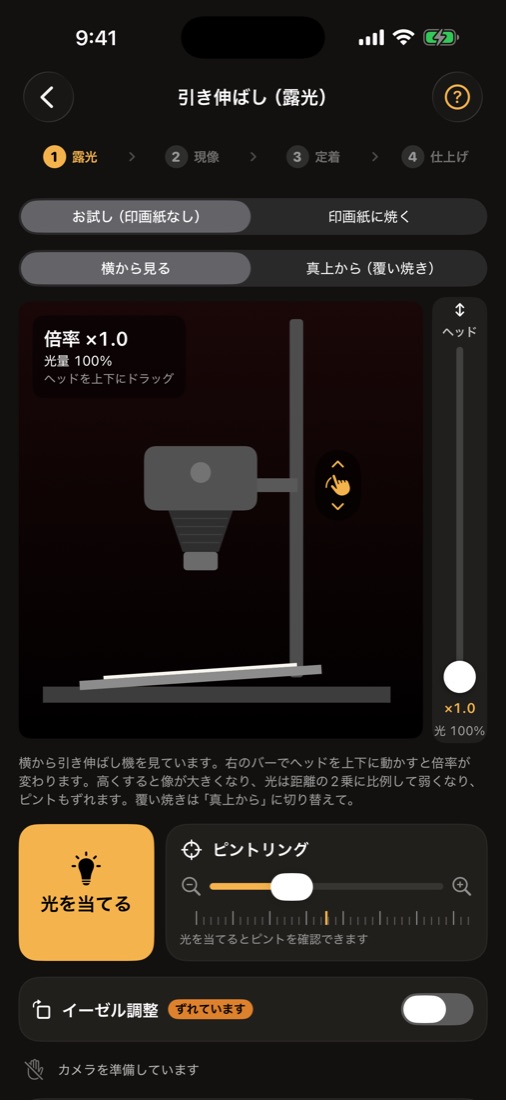
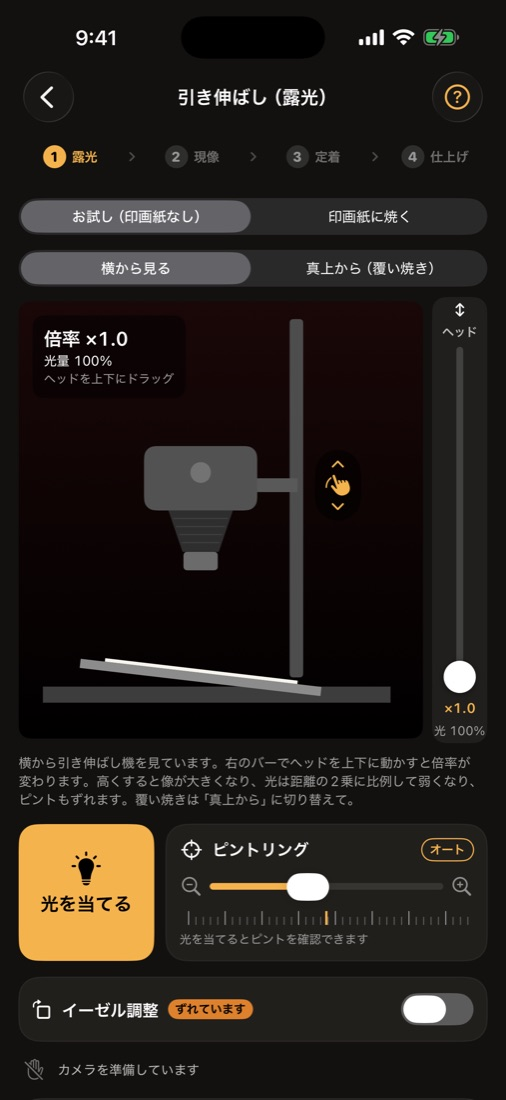
Add files via upload

diff --git a/assets/hero3d.js b/assets/hero3d.js
@@ -1,0 +1,285 @@
+/*
+ * ヒーローの演出（three.js）
+ * 現像液の中で、白い印画紙に像が浮かび上がる。暗い所から先に現れ、
+ * 指やマウスで触れると液面に波紋が広がる。セーフライトの光の中に塵が漂う。
+ * WebGL が使えないとき・動きを減らす設定のときは、CSS の背景画像のまま（またはすぐ完成した像）にする。
+ */
+(function () {
+  var script = document.currentScript;
+  var hero = document.querySelector('.hero');
+  var holder = hero && hero.querySelector('.hero-bg');
+  if (!hero || !holder || !window.THREE) return;
+
+  var reduceMotion = window.matchMedia && window.matchMedia('(prefers-reduced-motion: reduce)').matches;
+  // 確認用：URL に #prog=0.3 のように付けると、現像の途中で止めて表示する
+  var forced = /prog=([0-9.]+)/.exec(location.hash);
+  if (forced) reduceMotion = true;
+  var imageURL = (script && script.getAttribute('data-image')) || 'assets/hero.jpg';
+
+  var renderer;
+  try {
+    renderer = new THREE.WebGLRenderer({ antialias: false, alpha: false, powerPreference: 'low-power' });
+  } catch (e) {
+    return; // WebGL なし：CSS の背景のまま
+  }
+  if (!renderer.getContext()) return;
+
+  var canvas = renderer.domElement;
+  canvas.className = 'hero-canvas';
+  canvas.setAttribute('aria-hidden', 'true');
+  renderer.setPixelRatio(Math.min(window.devicePixelRatio || 1, 2));
+
+  var scene = new THREE.Scene();
+  var camera = new THREE.OrthographicCamera(-1, 1, 1, -1, 0, 1);
+
+  // ---- 印画紙（現像される像） ----
+  var MAX_RIPPLES = 8;
+  var ripples = [];
+  for (var i = 0; i < MAX_RIPPLES; i++) ripples.push(new THREE.Vector3(0, 0, -100));
+
+  var uniforms = {
+    uTex: { value: null },
+    uTime: { value: 0 },
+    uProg: { value: forced ? parseFloat(forced[1]) : (reduceMotion ? 1 : 0) },
+    uRes: { value: new THREE.Vector2(1, 1) },
+    uImgAspect: { value: 1.5 },
+    uRip: { value: ripples }
+  };
+
+  var paperMaterial = new THREE.ShaderMaterial({
+    uniforms: uniforms,
+    vertexShader: [
+      'varying vec2 vUv;',
+      'void main() { vUv = uv; gl_Position = vec4(position.xy, 0.0, 1.0); }'
+    ].join('\n'),
+    fragmentShader: [
+      'precision highp float;',
+      'uniform sampler2D uTex;',
+      'uniform float uTime, uProg, uImgAspect;',
+      'uniform vec2 uRes;',
+      'uniform vec3 uRip[' + MAX_RIPPLES + '];',
+      'varying vec2 vUv;',
+      'float hash(vec2 p) { return fract(sin(dot(p, vec2(127.1, 311.7))) * 43758.5453); }',
+      'float noise(vec2 p) {',
+      '  vec2 i = floor(p), f = fract(p); f = f * f * (3.0 - 2.0 * f);',
+      '  return mix(mix(hash(i), hash(i + vec2(1.0, 0.0)), f.x), mix(hash(i + vec2(0.0, 1.0)), hash(i + 1.0), f.x), f.y);',
+      '}',
+      'void main() {',
+      '  vec2 uv = vUv;',
+      '  float ca = uRes.x / uRes.y;',
+      // background-size: cover と同じ切り取り
+      '  vec2 s = ca > uImgAspect ? vec2(1.0, uImgAspect / ca) : vec2(ca / uImgAspect, 1.0);',
+      '  vec2 p = (uv - 0.5) * s + 0.5;',
+      // 液面のゆらぎ
+      '  vec2 w = vec2(noise(uv * 3.0 + uTime * 0.15), noise(uv * 3.0 - uTime * 0.12)) - 0.5;',
+      '  p += w * 0.005;',
+      // 波紋（中心から広がり、だんだん弱まる）
+      '  float shine = 0.0;',
+      '  for (int i = 0; i < ' + MAX_RIPPLES + '; i++) {',
+      '    vec3 r = uRip[i];',
+      '    float age = uTime - r.z;',
+      '    if (age < 0.0 || age > 3.5) continue;',
+      '    vec2 d = (uv - r.xy) * vec2(ca, 1.0);',
+      '    float dist = length(d);',
+      '    float front = age * 0.32;',
+      '    float ring = exp(-pow((dist - front) * 14.0, 2.0));',
+      '    float wave = sin((dist - front) * 70.0) * ring * exp(-age * 1.1);',
+      '    p += (d / max(dist, 1e-4)) * wave * 0.008 * vec2(1.0 / ca, 1.0);',
+      '    shine += max(wave, 0.0) * 0.12;',
+      '  }',
+      '  vec3 img = texture2D(uTex, clamp(p, 0.0, 1.0)).rgb;',
+      // 濃い（暗い）所ほど先に現れる
+      '  float lum = dot(img, vec3(0.299, 0.587, 0.114));',
+      '  float n = noise(uv * 9.0) * 0.18;',
+      // 写真が全体に暗めなので、明るさを広げてから順に現す（6秒かけて少しずつ）
+      '  float lumN = clamp(lum * 2.2, 0.0, 1.0);',
+      '  float reveal = smoothstep(0.0, 0.2, uProg * 1.3 - lumN - n + 0.1);',
+      // 現像前の印画紙：セーフライトの下で赤っぽく沈んだ白
+      '  vec3 paper = vec3(0.62, 0.30, 0.22);',
+      '  vec3 col = mix(paper, img, reveal);',
+      '  col += shine * vec3(1.0, 0.7, 0.5);',
+      // フィルムの粒子
+      '  col += (hash(uv * uRes + fract(uTime * 7.0) * 91.0) - 0.5) * 0.045;',
+      '  gl_FragColor = vec4(col, 1.0);',
+      '}'
+    ].join('\n')
+  });
+  scene.add(new THREE.Mesh(new THREE.PlaneGeometry(2, 2), paperMaterial));
+
+  // ---- セーフライトの光の中を漂う塵 ----
+  var DUST = 140;
+  var dustPos = new Float32Array(DUST * 3);
+  var dustSeed = new Float32Array(DUST);
+  for (var j = 0; j < DUST; j++) {
+    dustPos[j * 3] = Math.random() * 2 - 1;
+    dustPos[j * 3 + 1] = Math.random() * 2 - 1;
+    dustPos[j * 3 + 2] = 0;
+    dustSeed[j] = Math.random();
+  }
+  var dustGeo = new THREE.BufferGeometry();
+  dustGeo.setAttribute('position', new THREE.BufferAttribute(dustPos, 3));
+  dustGeo.setAttribute('seed', new THREE.BufferAttribute(dustSeed, 1));
+  var dustMaterial = new THREE.ShaderMaterial({
+    uniforms: { uTime: uniforms.uTime, uScale: { value: renderer.getPixelRatio() } },
+    transparent: true,
+    depthTest: false,
+    blending: THREE.AdditiveBlending,
+    vertexShader: [
+      'attribute float seed;',
+      'uniform float uTime, uScale;',
+      'varying float vAlpha;',
+      'void main() {',
+      '  vec3 p = position;',
+      // ゆっくり上へ流れ、左右にゆれる。画面の上に出たら下へ戻る
+      '  p.y = mod(p.y + 1.0 + uTime * (0.015 + seed * 0.03), 2.0) - 1.0;',
+      '  p.x += sin(uTime * (0.3 + seed) + seed * 40.0) * 0.03;',
+      '  vAlpha = (0.25 + 0.75 * seed) * (0.6 + 0.4 * sin(uTime * 1.7 + seed * 20.0));',
+      '  gl_Position = vec4(p.xy, 0.0, 1.0);',
+      '  gl_PointSize = (1.5 + seed * 3.5) * uScale;',
+      '}'
+    ].join('\n'),
+    fragmentShader: [
+      'precision mediump float;',
+      'varying float vAlpha;',
+      'void main() {',
+      '  float d = length(gl_PointCoord - 0.5);',
+      '  float a = smoothstep(0.5, 0.0, d) * vAlpha * 0.55;',
+      '  gl_FragColor = vec4(vec3(1.0, 0.72, 0.48) * a, a);',
+      '}'
+    ].join('\n')
+  });
+  scene.add(new THREE.Points(dustGeo, dustMaterial));
+
+  // ---- 大きさ ----
+  function resize() {
+    var w = holder.clientWidth || hero.clientWidth;
+    var h = holder.clientHeight || hero.clientHeight;
+    renderer.setSize(w, h, false);
+    uniforms.uRes.value.set(w, h);
+    if (!running) renderer.render(scene, camera);
+  }
+
+  // ---- 波紋 ----
+  var nextRipple = 0;
+  function addRipple(x, y) {
+    ripples[nextRipple].set(x, y, uniforms.uTime.value);
+    nextRipple = (nextRipple + 1) % MAX_RIPPLES;
+  }
+  var lastMoveRipple = 0;
+  function pointerToUV(e) {
+    var r = canvas.getBoundingClientRect();
+    return { x: (e.clientX - r.left) / r.width, y: 1 - (e.clientY - r.top) / r.height };
+  }
+  if (!reduceMotion) {
+    hero.addEventListener('pointermove', function (e) {
+      var t = uniforms.uTime.value;
+      if (t - lastMoveRipple < 0.18) return;
+      lastMoveRipple = t;
+      var p = pointerToUV(e);
+      addRipple(p.x, p.y);
+    }, { passive: true });
+    hero.addEventListener('pointerdown', function (e) {
+      var p = pointerToUV(e);
+      addRipple(p.x, p.y);
+    }, { passive: true });
+  }
+
+  // ---- 描画ループ（見えている間だけ動かす） ----
+  var running = false;
+  var visible = true;
+  var start = 0;
+  var last = 0;
+  var nextDrip = 2.0;
+  function frame(now) {
+    if (!running) return;
+    var t = now / 1000;
+    if (!start) start = t;
+    var dt = Math.min(0.1, t - (last || t));
+    last = t;
+    uniforms.uTime.value += dt;
+    var el = uniforms.uTime.value;
+    // 約6秒かけて現像し、ゆっくり止まる
+    var x = Math.min(1, el / 6);
+    uniforms.uProg.value = 1 - Math.pow(1 - x, 3);
+    // ときどき、しずくが落ちたような波紋
+    if (el > nextDrip) {
+      addRipple(0.15 + Math.random() * 0.7, 0.2 + Math.random() * 0.6);
+      nextDrip = el + 2.5 + Math.random() * 3;
+    }
+    renderer.render(scene, camera);
+    requestAnimationFrame(frame);
+  }
+  function setRunning(on) {
+    if (reduceMotion) on = false;
+    if (on === running) return;
+    running = on;
+    last = 0;
+    if (on) requestAnimationFrame(frame);
+  }
+
+  // ---- 画像を読み込んでから差し替える ----
+  new THREE.TextureLoader().load(imageURL, function (tex) {
+    tex.minFilter = THREE.LinearFilter;
+    tex.generateMipmaps = false;
+    uniforms.uTex.value = tex;
+    uniforms.uImgAspect.value = tex.image.width / tex.image.height;
+    holder.appendChild(canvas);
+    holder.classList.add('has-canvas');
+    resize();
+    renderer.render(scene, camera);
+    setRunning(visible && !document.hidden);
+  });
+
+  if ('ResizeObserver' in window) {
+    new ResizeObserver(resize).observe(holder);
+  } else {
+    window.addEventListener('resize', resize);
+  }
+  if ('IntersectionObserver' in window) {
+    new IntersectionObserver(function (entries) {
+      visible = entries[0].isIntersecting;
+      setRunning(visible && !document.hidden && !!uniforms.uTex.value);
+    }).observe(hero);
+  }
+  document.addEventListener('visibilitychange', function () {
+    setRunning(visible && !document.hidden && !!uniforms.uTex.value);
+  });
+})();
+
+/*
+ * スクリーンショットの列：画面に入ると、奥から一枚ずつ起き上がるように並ぶ。
+ * 指やマウスを乗せると少し傾く。
+ */
+(function () {
+  var figs = document.querySelectorAll('.shots figure');
+  if (!figs.length) return;
+  var reduceMotion = window.matchMedia && window.matchMedia('(prefers-reduced-motion: reduce)').matches;
+  if (reduceMotion || !('IntersectionObserver' in window)) return;
+
+  for (var i = 0; i < figs.length; i++) {
+    figs[i].classList.add('tilt-in');
+    figs[i].style.transitionDelay = (i * 0.08) + 's';
+  }
+  var io = new IntersectionObserver(function (entries) {
+    entries.forEach(function (e) {
+      if (e.isIntersecting) {
+        e.target.classList.add('is-in');
+        io.unobserve(e.target);
+      }
+    });
+  }, { threshold: 0.25 });
+  for (var j = 0; j < figs.length; j++) io.observe(figs[j]);
+
+  Array.prototype.forEach.call(figs, function (fig) {
+    var img = fig.querySelector('img');
+    if (!img) return;
+    fig.addEventListener('pointermove', function (e) {
+      if (e.pointerType === 'touch') return;
+      var r = fig.getBoundingClientRect();
+      var dx = (e.clientX - r.left) / r.width - 0.5;
+      var dy = (e.clientY - r.top) / r.height - 0.5;
+      img.style.transform = 'perspective(900px) rotateY(' + (dx * 14) + 'deg) rotateX(' + (-dy * 10) + 'deg) translateZ(10px)';
+    });
+    fig.addEventListener('pointerleave', function () { img.style.transform = ''; });
+  });
+})();

diff --git a/assets/style.css b/assets/style.css
@@ -21,7 +21,7 @@ body {
   line-height: 1.8;
 }
 a { color: var(--amber); }
-img { max-width: 100%; display: block; }
+img { max-width: 100%; height: auto; display: block; }
 
 .wrap { max-width: 1080px; margin: 0 auto; padding: 0 16px; }
 
@@ -73,8 +73,8 @@ section { padding: 88px 0; }
 .step p { margin: 0; color: var(--muted); font-size: 14px; }
 
 /* スクリーンショット */
-.shots { display: flex; gap: 18px; overflow-x: auto; padding: 36px 16px 12px; margin: 0 -16px; scroll-snap-type: x mandatory; }
-.shots figure { flex: 0 0 auto; width: min(64vw, 250px); margin: 0; scroll-snap-align: center; }
+.shots { display: flex; gap: 18px; overflow-x: auto; padding: 36px 16px 12px; margin: 0 -16px; scroll-snap-type: x mandatory; scroll-padding: 0 16px; }
+.shots figure { flex: 0 0 auto; width: min(64vw, 250px); margin: 0; scroll-snap-align: start; }
 .shots img { border-radius: 26px; border: 1px solid var(--line); box-shadow: 0 20px 50px rgba(0,0,0,0.5); }
 .shots figcaption { font-size: 13px; color: var(--muted); margin-top: 12px; text-align: center; }
 
@@ -119,3 +119,17 @@ section { padding: 88px 0; }
   .doc td:first-child { border-top: 0; font-weight: 600; }
   .doc td:not(:first-child)::before { content: attr(data-label); display: block; font-size: 12px; color: var(--amber); letter-spacing: 0.04em; }
 }
+
+/* three.js の演出（ヒーローの現像・波紋・塵） */
+.hero-canvas { position: absolute; inset: 0; width: 100%; height: 100%; display: block; }
+.hero { touch-action: pan-y; }
+
+/* スクリーンショット：奥から起き上がって並ぶ。マウスを乗せると傾く */
+.shots { perspective: 1200px; }
+.shots figure.tilt-in {
+  opacity: 0;
+  transform: rotateY(-38deg) translateX(60px) translateZ(-80px);
+  transition: transform 0.9s cubic-bezier(0.2, 0.8, 0.2, 1), opacity 0.9s ease;
+}
+.shots figure.tilt-in.is-in { opacity: 1; transform: none; }
+.shots img { transition: transform 0.25s ease-out; will-change: transform; }

diff --git a/index.html b/index.html
@@ -7,12 +7,14 @@
   <meta name="description" content="Darkroom Lab は、撮影したネガを引き伸ばし機で印画紙に焼き付け、現像・定着して一枚のプリントに仕上げるまでを iPhone で体験できるアプリです。">
   <meta property="og:title" content="Darkroom Lab">
   <meta property="og:description" content="撮る・焼く・現像する。暗室の手ざわりを、iPhoneで。">
-  <meta property="og:image" content="assets/hero.jpg">
+  <meta property="og:image" content="https://hideto0926.github.io/genzo/assets/hero.jpg">
+  <meta property="og:url" content="https://hideto0926.github.io/genzo/">
+  <link rel="canonical" href="https://hideto0926.github.io/genzo/">
   <meta name="theme-color" content="#0e0a09">
   <link rel="icon" href="assets/icon.png">
   <link rel="apple-touch-icon" href="assets/icon.png">
-  <link rel="alternate" hreflang="ja" href="./">
-  <link rel="alternate" hreflang="en" href="en/">
+  <link rel="alternate" hreflang="ja" href="https://hideto0926.github.io/genzo/">
+  <link rel="alternate" hreflang="en" href="https://hideto0926.github.io/genzo/en/">
   <link rel="stylesheet" href="assets/style.css">
 </head>
 <body>
@@ -86,5 +88,7 @@
       </nav>
     </div>
   </footer>
+  <script src="https://cdnjs.cloudflare.com/ajax/libs/three.js/r128/three.min.js" defer></script>
+  <script src="assets/hero3d.js" data-image="assets/hero.jpg" defer></script>
 </body>
 </html>

diff --git a/en/index.html b/en/index.html
@@ -7,12 +7,14 @@
   <meta name="description" content="Darkroom Lab lets you print your negatives with an enlarger, then develop, fix and wash them into a finished print — all on your iPhone.">
   <meta property="og:title" content="Darkroom Lab">
   <meta property="og:description" content="Shoot, print, develop. The feel of the darkroom, on iPhone.">
-  <meta property="og:image" content="../assets/hero.jpg">
+  <meta property="og:image" content="https://hideto0926.github.io/genzo/assets/hero.jpg">
+  <meta property="og:url" content="https://hideto0926.github.io/genzo/en/">
+  <link rel="canonical" href="https://hideto0926.github.io/genzo/en/">
   <meta name="theme-color" content="#0e0a09">
   <link rel="icon" href="../assets/icon.png">
   <link rel="apple-touch-icon" href="../assets/icon.png">
-  <link rel="alternate" hreflang="ja" href="../">
-  <link rel="alternate" hreflang="en" href="./">
+  <link rel="alternate" hreflang="ja" href="https://hideto0926.github.io/genzo/">
+  <link rel="alternate" hreflang="en" href="https://hideto0926.github.io/genzo/en/">
   <link rel="stylesheet" href="../assets/style.css">
 </head>
 <body>
@@ -86,5 +88,7 @@
       </nav>
     </div>
   </footer>
+  <script src="https://cdnjs.cloudflare.com/ajax/libs/three.js/r128/three.min.js" defer></script>
+  <script src="../assets/hero3d.js" data-image="../assets/hero.jpg" defer></script>
 </body>
 </html>

diff --git a/en/privacy.html b/en/privacy.html
@@ -7,8 +7,9 @@
   <meta name="description" content="Privacy Policy for Darkroom Lab">
   <meta name="theme-color" content="#0e0a09">
   <link rel="icon" href="../assets/icon.png">
-  <link rel="alternate" hreflang="ja" href="../privacy.html">
-  <link rel="alternate" hreflang="en" href="privacy.html">
+  <link rel="canonical" href="https://hideto0926.github.io/genzo/en/privacy.html">
+  <link rel="alternate" hreflang="ja" href="https://hideto0926.github.io/genzo/privacy.html">
+  <link rel="alternate" hreflang="en" href="https://hideto0926.github.io/genzo/en/privacy.html">
   <link rel="stylesheet" href="../assets/style.css">
 </head>
 <body>
